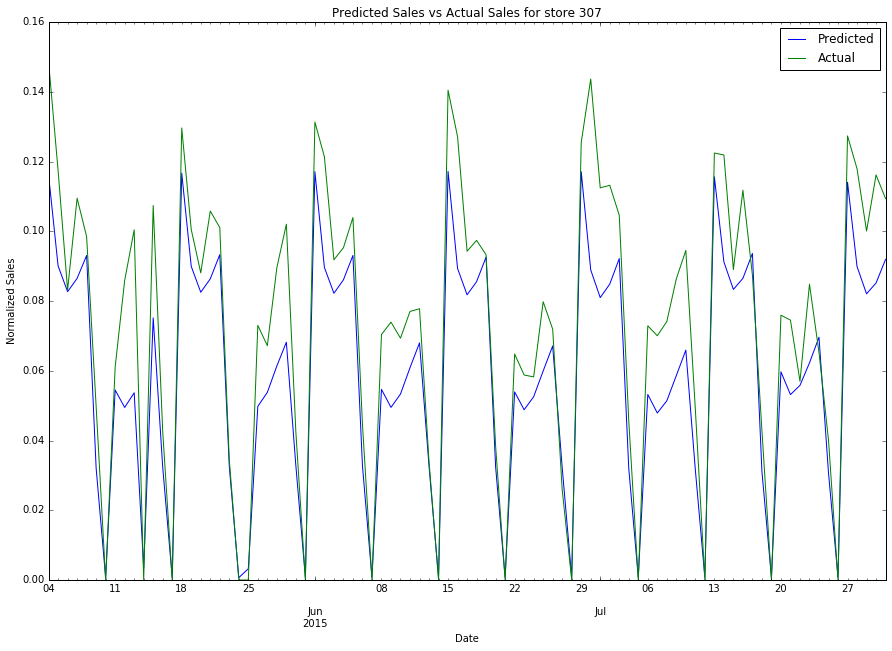
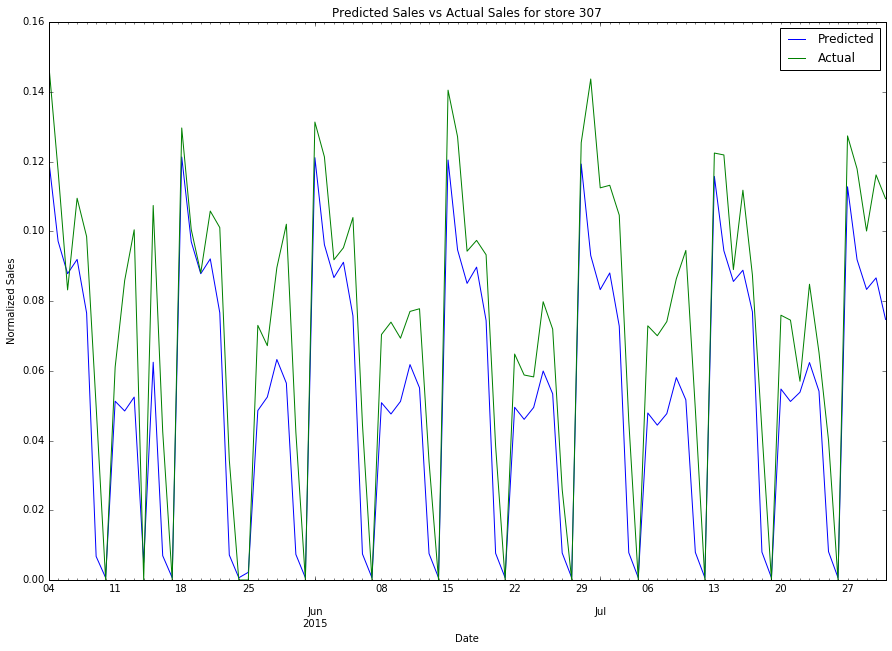
final edits for LA presentations

diff --git a/16s_la/docs/la_mnguyen_hw_presentation.tex b/16s_la/docs/la_mnguyen_hw_presentation.tex
@@ -164,7 +164,7 @@
             Store  & Validation accuracy (\%)\\
             \toprule
             854    & 88.36 \\
-            1022   & 64.02 \\
+            1022   & 71.02 \\
             463    & 82.54 \\
             905    & 93.65 \\
             494    & 99.47 \\
@@ -186,12 +186,12 @@
         \begin{subfigure}[t]{0.5\textwidth}
             \centering
             \includegraphics[height=1.5in]{rossmann_prediction_errors_store1022}
-            \caption{Store 1022}
+            \caption{Store 1022 (71.02\% val acc)}
         \end{subfigure}%
         \begin{subfigure}[t]{0.5\textwidth}
             \centering
             \includegraphics[height=1.5in]{rossmann_prediction_errors_store307}
-            \caption{Store 307}
+            \caption{Store 307 (72.09\% val acc)}
         \end{subfigure}
         \label{fig:sub1}
         \caption{Normalized actual and predicted number of sales}
@@ -204,8 +204,8 @@
 \begin{frame}{Experiment}
     \begin{figure}[t!]
         \centering
-        \includegraphics[height=2.8in]{rossmann_prediction_errors_store45}
-        \caption{Normalized actual and predicted number of sales for store 45}
+        \includegraphics[height=2.6in]{rossmann_prediction_errors_store45}
+        \caption{Normalized actual and predicted number of sales for store 45 (99.20\% val acc)}
     \end{figure}
 \end{frame}
 
@@ -218,6 +218,7 @@
         \item Confirm whether using the same model for all the stores is better than training each store separately.
         \item Experiments with more models: more layers and hidden units
         \item Experiment with GRU
+        \item Gradually decreasing learning rates
     \end{itemize}
 \end{frame}
 
